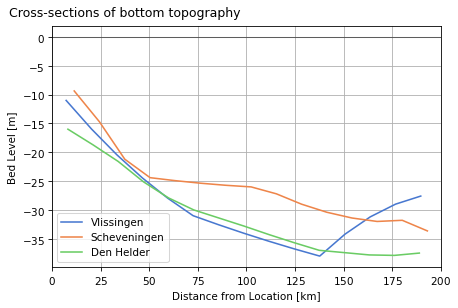
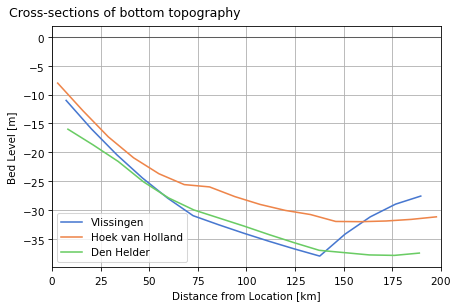
update locations

diff --git a/theory/theory_part3.py b/theory/theory_part3.py
@@ -40,9 +40,9 @@ LOCATIONS = {
         "lon": 3.566667,
         "lat": 51.45,
     },
-    "Scheveningen": {
-        "lon": 4.273056,
-        "lat": 52.108056,
+    "Hoek van Holland": {
+        "lon": 4.128611,
+        "lat": 51.981111,
     },
     "Den Helder": {
         "lon": 4.75,
@@ -103,7 +103,7 @@ def theory_figure_map(
         ax.tick_params(labelright=False)
 
     if locations:
-        for i, loc in enumerate(["Vlissingen", "Scheveningen", "Den Helder"]):
+        for i, loc in enumerate(["Vlissingen", "Hoek van Holland", "Den Helder"]):
             ax.plot(
                 [LOCATIONS[loc]["lon"]],
                 [LOCATIONS[loc]["lat"]],
@@ -197,7 +197,7 @@ def theory_figure_cross(
     fig.set_layout_engine("compressed")
     fig.suptitle("Cross-sections of bottom topography", va="top", ha="left", x=0.01)
 
-    for i, loc in enumerate(["Vlissingen", "Scheveningen", "Den Helder"]):
+    for i, loc in enumerate(["Vlissingen", "Hoek van Holland", "Den Helder"]):
         # Select longitude
         lon_max = LOCATIONS[loc]["lon"]
         lon_min = LOCATIONS[loc]["lon"] - 5
